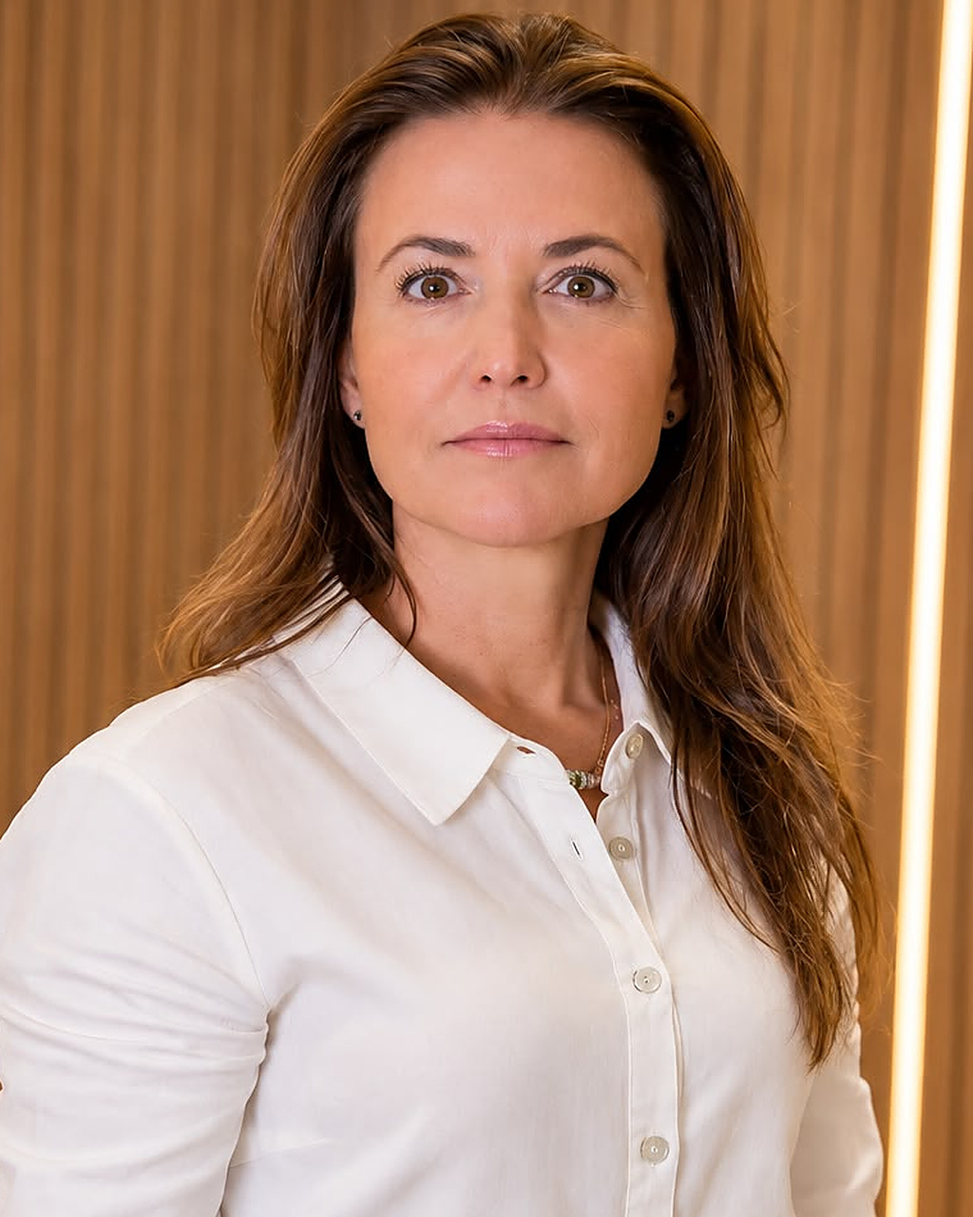
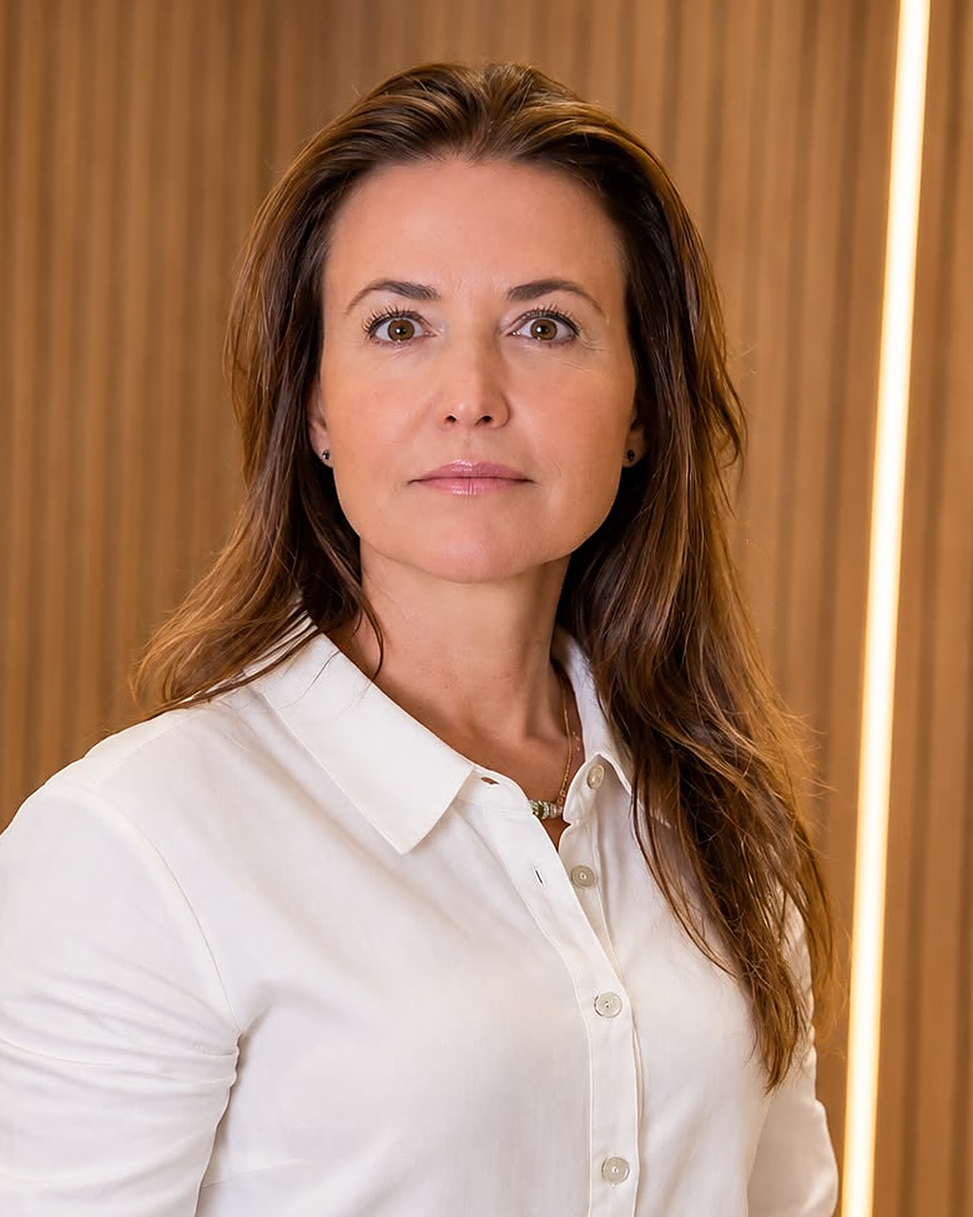
Add files via upload

diff --git a/main.js b/main.js
@@ -30,22 +30,22 @@ drawLines($('.ex-logo g'), 60, 40, false);
 const PEOPLE = [
   { img: 'socia-c.jpg', name: 'Cristina<br>Reis Marques', alt: 'Cristina Reis Marques',
     role: { pt: 'Relacionamento e implantação', en: 'Client relations & onboarding' },
-    bio: { pt: 'Formada em Turismo, com pós-graduação em Administração e MBA em Marketing. Foi gerente nacional de relacionamento com o cliente da Alphaville Urbanismo, onde conduziu o relacionamento diário e a implantação de empreendimentos residenciais de altíssimo padrão.',
-           en: 'Degree in Tourism, postgraduate in Business Administration and MBA in Marketing. As national client relations manager at Alphaville Urbanismo, she led day-to-day client relations and the onboarding of ultra-high-end residential communities.' },
-    hi: { pt: ['<strong>Alphaville Urbanismo:</strong> gerência nacional de relacionamento com o cliente e implantação de residenciais de altíssimo padrão', 'Implantação de associações de moradores e formação de comunidade', '+20 anos em hotelaria, construção civil e gestão de propriedades', 'Ex-diretora de operações de gerenciadora com 80 contratos e +200 colaboradores', 'Assembleias de instalação com mais de 500 participantes'],
-          en: ['<strong>Alphaville Urbanismo:</strong> national client relations management and onboarding of ultra-high-end residential communities', 'Set-up of residents\' associations and community building', '20+ years in hospitality, construction and property management', 'Former operations director at a firm with 80 contracts and 200+ staff', 'Handover meetings with over 500 attendees'] } },
+    bio: { pt: 'Formada em Turismo, com pós-graduação em Administração e MBA em Marketing. Foi gerente nacional de relacionamento com o cliente em uma das maiores urbanizadoras do país, conduzindo o relacionamento diário e a implantação de empreendimentos residenciais de altíssimo padrão.',
+           en: 'Degree in Tourism, postgraduate in Business Administration and MBA in Marketing. As national client relations manager at one of Brazil\'s largest urban developers, she led day-to-day client relations and the onboarding of ultra-high-end residential communities.' },
+    hi: { pt: ['Gerência nacional de relacionamento com o cliente e implantação de residenciais de altíssimo padrão, em escala nacional', 'Implantação de associações de moradores e formação de comunidade', '+20 anos em hotelaria, construção civil e gestão de propriedades', 'Atuou como diretora de operações de gerenciadora com 80 contratos corporativos e logísticos e +200 colaboradores', 'Assembleias de instalação com mais de 500 participantes'],
+          en: ['National client relations management and onboarding of ultra-high-end residential communities, at national scale', 'Set-up of residents\' associations and community building', '20+ years in hospitality, construction and property management', 'Operations director at a management firm with 80 corporate and logistics contracts and 200+ staff', 'Handover meetings with over 500 attendees'] } },
   { img: 'socia-a.jpg', name: 'Helena<br>Ferraz de Carvalho', alt: 'Helena Ferraz de Carvalho',
     role: { pt: 'Facilities e hospitalidade corporativa', en: 'Facilities & corporate hospitality' },
     bio: { pt: 'Bacharel em Comunicação Social, com MBA em Gestão Empresarial e Gestão Estratégica de Pessoas. Especialista em facilities, hospitalidade corporativa e experiência do ocupante, com uma gestão inspirada na hotelaria de luxo: conforto, conveniência, sofisticação e atendimento personalizado.',
            en: 'Degree in Communications, MBA in Business Management and Strategic People Management. A specialist in facilities, corporate hospitality and occupant experience, with an approach inspired by luxury hospitality: comfort, convenience, sophistication and personalised service.' },
-    hi: { pt: ['+23 anos em facilities e gestão de propriedades', 'Implantação e retrofit de lojas em shoppings de luxo de São Paulo', 'Gerente regional: +1 milhão de m², budget mensal de R$ 10 milhões e equipes de até 250 pessoas', 'Hospitalidade corporativa e experiência do ocupante inspiradas na hotelaria de luxo', 'Contratos, SLAs, KPIs e procurement para o mercado de alto padrão'],
-          en: ['23+ years in facilities and property management', 'Openings and retrofits of stores in São Paulo luxury malls', 'Regional manager: 1M+ m², R$ 10M monthly budget and teams of up to 250', 'Corporate hospitality and occupant experience inspired by luxury hotels', 'Contracts, SLAs, KPIs and procurement for the high-end market'] } },
+    hi: { pt: ['+23 anos em facilities e gestão de propriedades', 'Implantação e retrofit de unidades de varejo padrão Triple A em São Paulo', 'Gerente regional: +1 milhão de m², budget mensal de R$ 10 milhões e equipes de até 250 pessoas', 'Hospitalidade corporativa e experiência do ocupante inspiradas na hotelaria de luxo', 'Gerenciamento de contratos, SLAs, KPIs e procurement para o mercado de alto padrão'],
+          en: ['23+ years in facilities and property management', 'Openings and retrofits of Triple A retail units in São Paulo', 'Regional manager: 1M+ m², R$ 10M monthly budget and teams of up to 250', 'Corporate hospitality and occupant experience inspired by luxury hotels', 'Management of contracts, SLAs, KPIs and procurement for the high-end market'] } },
   { img: 'socia-b.jpg', name: 'Mary Lorena<br>Gurevich', alt: 'Mary Lorena Gurevich',
     role: { pt: 'Governança e alto padrão', en: 'Governance & high-end assets' },
-    bio: { pt: 'Formada em Direito, atua há mais de duas décadas na administração predial. Pioneira da sindicatura profissional, é especialista em empreendimentos de alto padrão, retrofit, certificações e assessoria a proprietários.',
+    bio: { pt: 'Formada em Direito, atua há mais de duas décadas em administração predial. Pioneira da sindicatura profissional, é especialista em empreendimentos de alto padrão, retrofit, certificações e assessoria a proprietários.',
            en: 'Law graduate with more than two decades in building administration. A pioneer of professional property management, she specialises in high-end properties, retrofits, certifications and owner advisory.' },
-    hi: { pt: ['Pioneira da sindicatura profissional, à frente do Cetenco Plaza desde a autogestão', 'Gestão de edifícios AAA com mais de 110.000 m² de área construída', 'Retrofit, certificações e implantação de condomínios', 'Assessoria jurídica e estratégica a proprietários'],
-          en: ['A pioneer of professional management, at Cetenco Plaza since its self-managed era', 'Management of AAA buildings with over 110,000 m² of built area', 'Retrofits, certifications and condominium set-up', 'Legal and strategic advisory to owners'] } },
+    hi: { pt: ['Pioneira em sindicatura profissional, à frente do Cetenco Plaza – Torre Norte, marco imobiliário e o primeiro projeto de fruição urbana de São Paulo', 'Gestão de edifícios AAA com mais de 110.000 m² de área construída', 'Retrofit, certificações e implantação de condomínios', 'Assessoria jurídica e estratégica a proprietários', 'Consultoria a residenciais que adotam o padrão de gestão dos ativos corporativos como referência de administração do patrimônio'],
+          en: ['A pioneer of professional management, leading Cetenco Plaza – Torre Norte, a real estate landmark and São Paulo\'s first urban-fruition project', 'Management of AAA buildings with over 110,000 m² of built area', 'Retrofits, certifications and condominium set-up', 'Legal and strategic advisory to owners', 'Advisory to residential properties that adopt corporate-asset management as their benchmark'] } },
 ];
 function renderPeople() {
   const open = $$('.person.open').map(p => +p.dataset.i);
@@ -63,26 +63,26 @@ const SC = [
     i: { pt: ['Planejamento operacional', 'Previsão orçamentária', 'Concorrências e contratações', 'Estruturação da gestão', 'Governança e acompanhamento'],
          en: ['Operational planning', 'Budget forecast', 'Tenders and contracting', 'Management structure', 'Governance and follow-up'] } },
   { t: { pt: 'O cotidiano', en: 'Every day' }, l: { pt: 'Para uma rotina que funciona sem ser notada.', en: 'For a routine that runs without being noticed.' },
-    i: { pt: ['Agenda recorrente no empreendimento', 'Prestadores, níveis de serviço e manutenção', 'Gestão administrativa e financeira', 'Relacionamento com moradores e eventos', 'Emergências 24/7'],
-         en: ['A recurring on-site agenda', 'Providers, service levels and maintenance', 'Administrative and financial management', 'Resident relations and events', '24/7 emergencies'] } },
+    i: { pt: ['Agenda recorrente no empreendimento', 'Avaliação de prestadores, níveis de serviço e manutenção', 'Gestão administrativa e financeira', 'Relacionamento com os stakeholders', 'Emergências 24/7'],
+         en: ['A recurring on-site agenda', 'Assessment of providers, service levels and maintenance', 'Administrative and financial management', 'Stakeholder relations', '24/7 emergencies'] } },
   { t: { pt: 'O patrimônio', en: 'The asset' }, l: { pt: 'Para um endereço que se valoriza com o tempo.', en: 'For an address that gains value over time.' },
-    i: { pt: ['Valorização das áreas comuns', 'Sustentabilidade e certificações LEED', 'Contratos, documentação e assembleias', 'Prestação de contas clara e periódica', 'Seguro de responsabilidade profissional de R$ 1 milhão'],
-         en: ['Enhancement of common areas', 'Sustainability and LEED certifications', 'Contracts, documentation and meetings', 'Clear, regular reporting', 'R$ 1 million professional liability insurance'] } },
+    i: { pt: ['Valorização da propriedade', 'Sustentabilidade e certificações', 'Compliance e governança condominial', 'Contratos, documentação e assembleias', 'Prestação de contas periódica e transparente', 'Seguro de responsabilidade civil profissional de R$ 1 milhão'],
+         en: ['Enhancement of the property', 'Sustainability and certifications', 'Compliance and condominium governance', 'Contracts, documentation and meetings', 'Regular, transparent reporting', 'R$ 1 million professional civil liability insurance'] } },
 ];
 function renderScope() {
   $('#scGrid').innerHTML = SC.map((s, k) => `<article class="sc reveal in"><span class="rn">${['I', 'II', 'III'][k]}</span><h3>${T(s.t)}</h3><p class="sc-lead">${T(s.l)}</p><ul>${T(s.i).map(x => `<li>${x}</li>`).join('')}</ul></article>`).join('');
 }
 
 /* ---------- PORTFÓLIO ---------- */
-const PF = { corp: ['Corporativo', 'Corporate'], res: ['Residencial', 'Residential'], hot: ['Hotelaria', 'Hospitality'], mis: ['Misto', 'Mixed'], mul: ['Multiuso', 'Mixed-use'], com: ['Comercial', 'Commercial'], log: ['Logístico', 'Logistics'] };
+const PF = { corp: ['Corporativo', 'Corporate'], med: ['Condomínio médico', 'Medical condominium'], res: ['Residencial', 'Residential'], hot: ['Hotelaria', 'Hospitality'], mis: ['Misto', 'Mixed'], mul: ['Multiuso', 'Mixed-use'], com: ['Comercial', 'Commercial'], log: ['Logístico', 'Logistics'] };
 const P = [
   ['2001', 'cetenco', 'Edifício Cetenco Plaza · Torre Norte', 'corp', { pt: '54.997,95 m² de área construída · Av. Paulista', en: '54,997.95 m² built area · Av. Paulista' }, 'Mary Lorena'],
   ['2018', 'malzoni', 'Pátio Victor Malzoni', 'corp', { pt: '69.893,06 m² de área útil', en: '69,893.06 m² usable area' }, 'Mary Lorena'],
+  ['', 'prime', 'Prime Medical Center', 'med', { pt: 'Hospital Dia Sírio-Libanês · 20.000 m² de área construída', en: 'Sírio-Libanês Day Hospital · 20,000 m² built area' }, 'Cristina Reis Marques'],
   ['2022', 'guarulhos', 'Urban Hub Guarulhos', 'log', { pt: '21.233 m² de área construída', en: '21,233 m² built area' }, 'Cristina Reis Marques'],
   ['', 'bravo', 'Bravo!', 'com', { pt: '6.206,54 m² de área privativa', en: '6,206.54 m² private area' }, 'Mary Lorena'],
-  ['2023', 'altodasnacoes', 'Alto das Nações · Condomínio Geral', 'mul', { pt: 'Sindicatura do condomínio geral', en: 'General condominium management' }, 'Cristina Reis Marques'],
-  ['2025', 'avnu', 'Alto das Nações · Setor 3', 'corp', { pt: 'Sindicatura do subcondomínio', en: 'Sub-condominium management' }, 'Cristina Reis Marques'],
-  ['', 'clari', 'Clari Pinheiros', 'mis', { pt: 'Condomínio geral e setor residencial · 88 unidades', en: 'General condominium and residential sector · 88 units' }, 'Helena Ferraz'],
+  ['2023', 'avnu', 'Complexo Alto das Nações', 'mul', { pt: 'Sindicatura do condomínio geral e do subcondomínio Setor 3', en: 'Management of the general condominium and the Setor 3 sub-condominium' }, 'Cristina Reis Marques'],
+  ['2025', 'clari', 'Clari Pinheiros', 'mis', { pt: 'Condomínio geral e setor residencial · 88 unidades', en: 'General condominium and residential sector · 88 units' }, 'Helena Ferraz'],
   ['', 'bauman', 'Bauman Corporate', 'corp', { pt: '6.656 m² de área locável', en: '6,656 m² leasable area' }, 'Cristina Reis Marques'],
   ['', 'spression', 'Spression Congonhas', 'res', { pt: '120 unidades', en: '120 units' }, 'Cristina Reis Marques'],
   ['', 'vistafl', 'Vista Faria Lima', 'corp', { pt: '16.475 m² de ABL', en: '16,475 m² GLA' }, 'Mary Lorena'],
@@ -118,20 +118,20 @@ const EN = {
   tag: 'High-performance management',
   nav1: 'Atena', nav2: 'Partners', nav3: 'Scope', nav4: 'Portfolio', nav5: 'Contact',
   h_eye: 'Professional property management · São Paulo',
-  h_title: 'Management worthy<br>of your address.',
-  h_sub: 'High-end residences and corporate buildings managed with technical rigour, discretion and the personal attention of each partner.',
+  h_title: 'Management worthy<br>of your investment.',
+  h_sub: 'Management of high-end residences and corporate buildings with technical rigour, ethics and the direct involvement of the partners.',
   cta1: 'Book a conversation', cta2: 'Discover Atena',
   a_eye: 'Atena',
-  a_text: 'Three partners, more than two decades devoted to buildings that demand excellence. We treat every property as an asset, and every resident as someone who deserves to be welcomed home, every day.',
-  n1: 'years of combined experience', n2: 'properties under management', n3: 'partners leading every operation', n4: 'availability for emergencies',
-  p_eye: 'The Atena standard', p_title: 'What an exclusive address deserves.',
-  p1t: 'Exclusivity', p1: 'Every property is led in person by a partner. No proxies, no intermediaries: decisions are made by someone who knows your building.',
+  a_text: 'Three partners, more than two decades devoted to buildings that demand excellence. We treat every property as unique, with the aim of growing its value. We master the technique of managing properties with excellence, and the sensitivity to understand the experience of those who live them.',
+  n1: 'years of experience', n2: 'properties under the partners\' management', n3: 'partners leading every operation', n4: 'availability for emergencies',
+  p_eye: 'The Atena standard', p_title: 'What your property deserves.',
+  p1t: 'Exclusivity', p1: 'Every property is led in person by a partner. No proxies: decisions are made by someone who knows your building.',
   p2t: 'Hospitality', p2: 'A standard of service drawn from luxury hospitality and high-end corporate headquarters: anticipating needs, welcoming warmly and resolving with discretion.',
-  p3t: 'Community', p3: 'Togetherness, belonging and lively common areas. A building where neighbours know one another and feel part of something greater.',
+  p3t: 'Community', p3: 'A building with connection, togetherness and integration. Lively common areas and a sense of belonging.',
   s_eye: 'The partners', s_title: 'Three careers.<br>One signature.',
   s_lead: 'Law, facilities and client relations: complementary backgrounds serving properties that leave no room for improvisation.',
-  x_eye: 'Presence', x_title: 'Close to those who live in the building.',
-  x_lead: 'Residents, owners and the board speak directly with a partner. Always.',
+  x_eye: 'Presence', x_title: 'Close to those who live the property.',
+  x_lead: 'Users, owners and the board speak directly with a partner. Always.',
   x1t: 'Regular presence', x1: 'A fixed agenda on site and continuous oversight of operations.',
   x2t: 'Active listening', x2: 'Every request is heard, recorded and answered by the person who decides.',
   x3t: '24/7 readiness', x3: 'A defined emergency plan and a partner available at any hour.',
@@ -142,13 +142,13 @@ const EN = {
   ct_eye: 'Client service', ct_title: 'It would be a pleasure to get to know your building.',
   ct_text: 'Book a private conversation with one of our partners. We will reply personally.',
   ct_or: 'or write to', mail_tip: 'Write to Atena', scroll: 'Scroll',
-  f1: 'Governance, condominium law and legal certainty.', f2t: 'Hospitality & client relations', f2: 'The resident experience, from onboarding to community life.', f3t: 'Facilities & services', f3: 'Flawless operations and services to luxury standards.',
+  f1: 'Governance, condominium law and legal certainty.', f2t: 'Hospitality & client relations', f2: 'The user experience, from onboarding to community life.', f3t: 'Facilities & services', f3: 'Flawless operations and services to luxury standards.',
   e_eye: 'Exclusivity', e_title: 'Every address<br>with its own signature.',
   e_lead: 'No two buildings are alike, and no two should be managed alike. Every property has a lead partner who knows it in detail and answers for it personally.',
-  e1t: 'A dedicated lead partner', e1: 'Decisions are made by someone who knows your building, not by an intermediary.',
+  e1t: 'A dedicated lead partner', e1: 'Decisions are made by someone who knows your building, not by a proxy.',
   e2t: 'Curated services', e2: 'Wellness, dining and convenience designed for the common areas, to hotel standards.',
-  e3t: 'Community life', e3: 'Gatherings, events and integration so that neighbours become a community.',
-  e4t: 'Absolute discretion', e4: 'Residents\' privacy and a reserved handling of every request.',
+  e3t: 'Community life', e3: 'Gatherings, events and integration so that the property becomes a community.',
+  e4t: 'Absolute discretion', e4: 'Privacy and a reserved handling of every request.',
   e_card: 'Signature management', e_cardsub: 'Your building', e_tit: 'Lead partner', e_line: 'Direct line', e_hint: 'One lead partner for every building.'
 };
 const PT = {};

diff --git a/index.html b/index.html
@@ -52,8 +52,8 @@
     <div class="scroll-cue"><span data-i18n="scroll">Role</span><i></i></div>
     <div class="hero-in">
       <p class="eyebrow gold-l" data-i18n="h_eye">Sindicatura profissional · São Paulo</p>
-      <h1 data-i18n="h_title">Gestão à altura<br>do seu endereço.</h1>
-      <p class="hero-sub" data-i18n="h_sub">Residenciais de alto padrão e edifícios corporativos administrados com rigor técnico, discrição e a atenção pessoal de cada sócia.</p>
+      <h1 data-i18n="h_title">Gestão à altura<br>do seu investimento.</h1>
+      <p class="hero-sub" data-i18n="h_sub">Administração de residenciais de alto padrão e edifícios corporativos com rigor técnico, ética e a atuação direta das sócias.</p>
       <div class="hero-cta">
         <a class="btn btn-light" href="#contato" data-i18n="cta1">Agendar uma conversa</a>
         <a class="link-light" href="#sobre" data-i18n="cta2">Conhecer a Atena</a>
@@ -65,10 +65,10 @@
 <!-- A ATENA -->
 <section class="about" id="sobre">
   <p class="eyebrow" data-i18n="a_eye">A Atena</p>
-  <p class="about-text reveal" data-i18n="a_text">Três sócias, mais de duas décadas dedicadas a edifícios que exigem excelência. Tratamos cada empreendimento como patrimônio e cada morador como alguém que merece ser bem recebido em casa, todos os dias.</p>
+  <p class="about-text reveal" data-i18n="a_text">Três sócias, mais de duas décadas dedicadas a edifícios que exigem excelência. Tratamos cada empreendimento como único, com o objetivo de desenvolver o patrimônio. Dominamos a técnica de gerir propriedades com excelência e a sensibilidade de compreender a experiência de quem as vivencia.</p>
   <div class="nums">
-    <div class="num reveal"><b>+20</b><span data-i18n="n1">anos de experiência somada</span></div>
-    <div class="num reveal"><b>16</b><span data-i18n="n2">empreendimentos sob gestão</span></div>
+    <div class="num reveal"><b>+25</b><span data-i18n="n1">anos de experiência</span></div>
+    <div class="num reveal"><b>20</b><span data-i18n="n2">empreendimentos sob gestão das sócias</span></div>
     <div class="num reveal"><b>3</b><span data-i18n="n3">sócias à frente de cada operação</span></div>
     <div class="num reveal"><b>24/7</b><span data-i18n="n4">disponibilidade para emergências</span></div>
   </div>
@@ -78,12 +78,12 @@
 <section class="pillars">
   <div class="sec-head center">
     <p class="eyebrow gold-l" data-i18n="p_eye">O padrão Atena</p>
-    <h2 data-i18n="p_title">O que um endereço exclusivo merece.</h2>
+    <h2 data-i18n="p_title">O que o seu patrimônio merece.</h2>
   </div>
   <div class="pil-grid">
-    <article class="pil reveal"><span class="rn">I</span><h3 data-i18n="p1t">Exclusividade</h3><p data-i18n="p1">Cada empreendimento é conduzido pessoalmente por uma sócia. Sem prepostos, sem intermediários: as decisões são tomadas por quem conhece o seu edifício.</p></article>
+    <article class="pil reveal"><span class="rn">I</span><h3 data-i18n="p1t">Exclusividade</h3><p data-i18n="p1">Cada empreendimento é conduzido pessoalmente por uma sócia. Sem prepostos: as decisões são tomadas por quem conhece o seu edifício.</p></article>
     <article class="pil reveal"><span class="rn">II</span><h3 data-i18n="p2t">Hospitalidade</h3><p data-i18n="p2">Um padrão de atendimento que vem da hotelaria de luxo e de sedes corporativas de alto padrão: antecipar necessidades, receber com cordialidade e resolver com discrição.</p></article>
-    <article class="pil reveal"><span class="rn">III</span><h3 data-i18n="p3t">Comunidade</h3><p data-i18n="p3">Convivência, pertencimento e áreas comuns vivas. Um edifício onde os vizinhos se reconhecem e se sentem parte de algo maior.</p></article>
+    <article class="pil reveal"><span class="rn">III</span><h3 data-i18n="p3t">Comunidade</h3><p data-i18n="p3">Um edifício onde há conexões, convivência e integração. Áreas comuns vivas e senso de pertencimento.</p></article>
   </div>
 </section>
 
@@ -97,7 +97,7 @@
   <div class="people" id="people"></div>
   <div class="forms">
     <div class="reveal"><span class="rn">Direito</span><p data-i18n="f1">Governança, legislação condominial e segurança jurídica.</p></div>
-    <div class="reveal"><span class="rn" data-i18n="f2t">Hotelaria e relacionamento</span><p data-i18n="f2">A experiência do morador, da implantação à vida em comunidade.</p></div>
+    <div class="reveal"><span class="rn" data-i18n="f2t">Hotelaria e relacionamento</span><p data-i18n="f2">A experiência do usuário, da implantação à vida em comunidade.</p></div>
     <div class="reveal"><span class="rn" data-i18n="f3t">Facilities e serviços</span><p data-i18n="f3">Operação impecável e serviços com padrão de alto luxo.</p></div>
   </div>
 </section>
@@ -109,10 +109,10 @@
     <h2 data-i18n="e_title">Cada endereço<br>com a sua assinatura.</h2>
     <p class="ex-lead" data-i18n="e_lead">Nenhum edifício é igual a outro, e nenhuma gestão deveria ser. Cada empreendimento tem uma sócia titular, que conhece o edifício em detalhe e responde pessoalmente por ele.</p>
     <ol class="ex-list">
-      <li class="reveal"><span>01</span><div><b data-i18n="e1t">Sócia titular dedicada</b><p data-i18n="e1">As decisões são tomadas por quem conhece o seu edifício, não por um intermediário.</p></div></li>
+      <li class="reveal"><span>01</span><div><b data-i18n="e1t">Sócia titular dedicada</b><p data-i18n="e1">As decisões são tomadas por quem conhece o seu edifício, não por um preposto.</p></div></li>
       <li class="reveal"><span>02</span><div><b data-i18n="e2t">Curadoria de serviços</b><p data-i18n="e2">Bem-estar, gastronomia e conveniência pensados para as áreas comuns, com padrão hoteleiro.</p></div></li>
-      <li class="reveal"><span>03</span><div><b data-i18n="e3t">Vida em comunidade</b><p data-i18n="e3">Convivência, eventos e integração para que vizinhos se tornem comunidade.</p></div></li>
-      <li class="reveal"><span>04</span><div><b data-i18n="e4t">Discrição absoluta</b><p data-i18n="e4">Privacidade dos moradores e condução reservada de cada demanda.</p></div></li>
+      <li class="reveal"><span>03</span><div><b data-i18n="e3t">Vida em comunidade</b><p data-i18n="e3">Convivência, eventos e integração para que o empreendimento se torne uma comunidade.</p></div></li>
+      <li class="reveal"><span>04</span><div><b data-i18n="e4t">Discrição absoluta</b><p data-i18n="e4">Privacidade e condução reservada de cada demanda.</p></div></li>
     </ol>
   </div>
   <div class="ex-card-wrap">
@@ -131,7 +131,7 @@
       <p class="ex-k" data-i18n="e_card">Gestão assinada</p>
       <span class="ex-chip"><i></i><i></i><i></i></span>
       <div class="ex-medal"><svg viewBox="0 0 60 40" class="ex-logo"><g></g></svg><span>ATENA</span></div>
-      <div class="ex-badge"><span class="ex-rib" data-i18n="e_line">Linha direta</span><b>24/7</b></div>
+      <div class="ex-badge"><span class="ex-rib" data-i18n="e_line">Linha direta</span></div>
       <div class="ex-name"><small data-i18n="e_tit">Sócia titular</small><b id="exName">Cristina Reis Marques</b></div>
       <p class="ex-micro">ATENA · GESTÃO DE ALTA PERFORMANCE · ATENA · GESTÃO DE ALTA PERFORMANCE · ATENA · GESTÃO DE ALTA PERFORMANCE ·</p>
     </div>
@@ -146,8 +146,8 @@
   <div class="pres-img" style="background-image:url(ponte.jpg)"></div>
   <div class="pres-in">
     <p class="eyebrow gold-l" data-i18n="x_eye">Presença</p>
-    <h2 data-i18n="x_title">Perto de quem vive o edifício.</h2>
-    <p class="pres-lead" data-i18n="x_lead">Moradores, proprietários e conselho falam diretamente com uma sócia. Sempre.</p>
+    <h2 data-i18n="x_title">Perto de quem vive a propriedade.</h2>
+    <p class="pres-lead" data-i18n="x_lead">Usuários, proprietários e conselho falam diretamente com uma sócia. Sempre.</p>
     <ul class="pres-list">
       <li class="reveal"><b data-i18n="x1t">Presença recorrente</b><span data-i18n="x1">Agenda fixa no empreendimento e acompanhamento contínuo da operação.</span></li>
       <li class="reveal"><b data-i18n="x2t">Escuta ativa</b><span data-i18n="x2">Cada demanda é ouvida, registrada e respondida por quem decide.</span></li>
